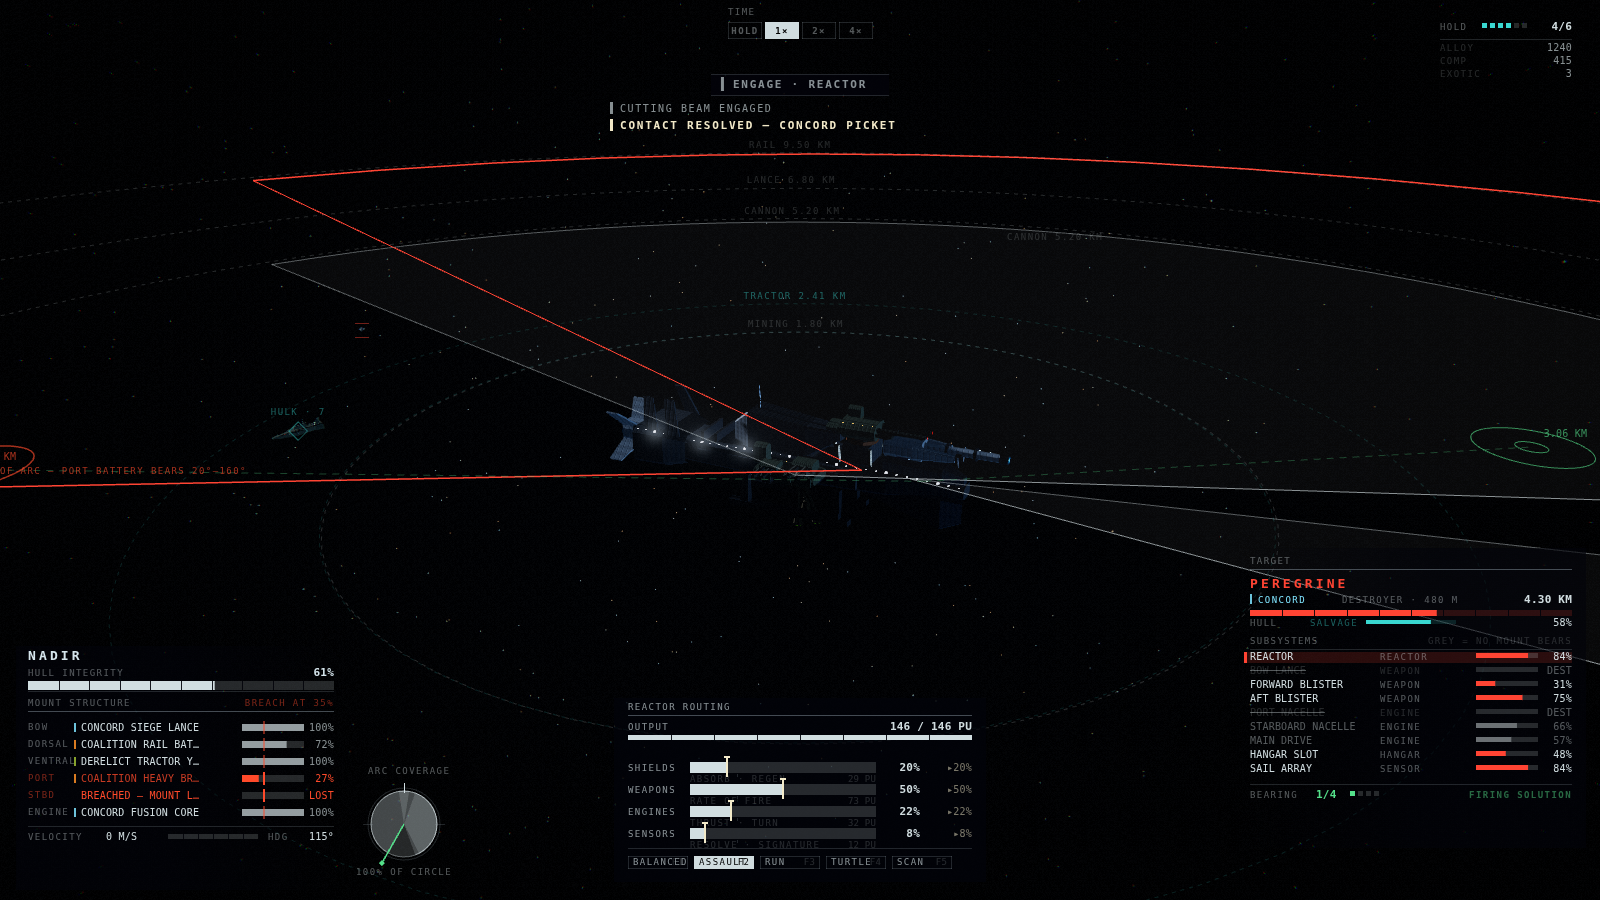
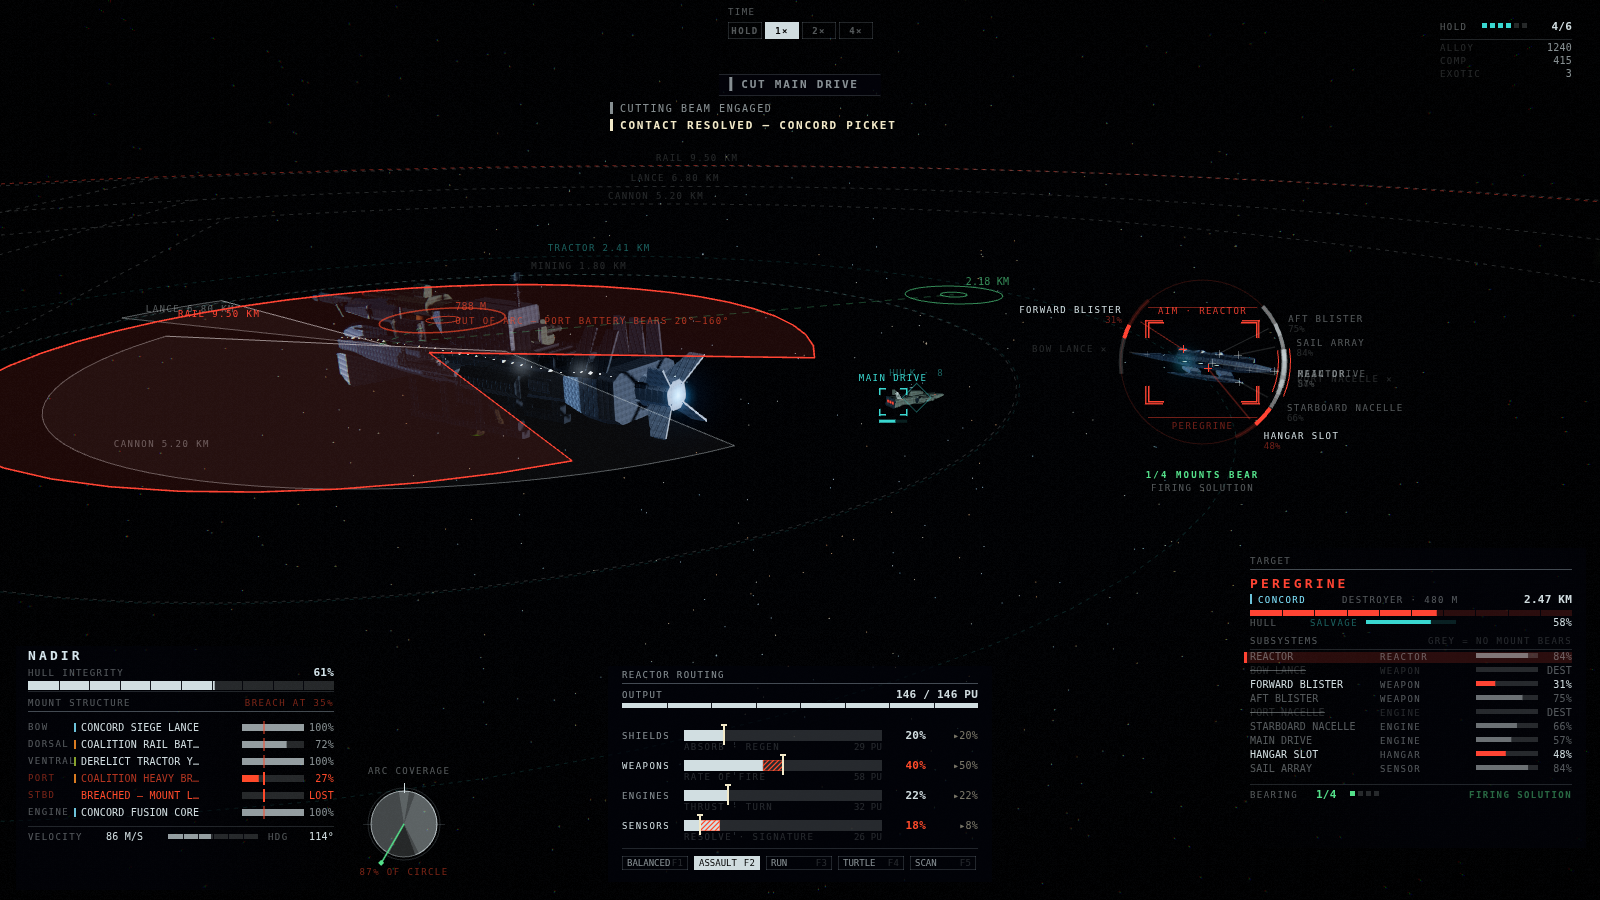
Add first assembled-game capture
docs/review/pass1/three-quarter.png is the whole build running together:
HUD with per-hardpoint structure bars and the breach-at-35% marker, power
routing correctly sealed until a reactor module is installed, arc coverage
reading 0% with no weapons fitted, tractor range ring, and the gas giant
POI behind it.

It also pins down the worst open defect precisely. The cruiser renders as a
near-uniform white mass with almost no value variation between faces
pointing in completely different directions, while the gas giant behind it
carries a correct terminator. That fails two acceptance criteria at once -
no object lit contradicting the POI key, and shadowed regions retaining
readable value separation.

Claude-Session: https://claude.ai/code/session_015jvdszNLHKCdWey4BV1AZL

diff --git a/src/ui/tactical.js b/src/ui/tactical.js
@@ -110,8 +110,15 @@ export class TacticalOverlay {
     const arcs = combat.describeArcs(player);
     if (!arcs.length) return;
 
+    // The rose is deliberately SMALL. It sits around the hull like a compass drawn on
+    // the plane; grown any larger the wide mounts (the dorsal bed is 306 degrees)
+    // become a translucent disc over half the frame and the negative space that makes
+    // this game legible is gone.
     const camDist = proj.camera ? proj.camera.position.distanceTo(player.position) : 4000;
-    const roseR = THREE.MathUtils.clamp(camDist * 0.36, 900, 7000);
+    const roseR = Math.min(
+      THREE.MathUtils.clamp(camDist * 0.21, 650, 3200),
+      (player.radius ?? 600) * 2.2,
+    );
 
     // Bearing wedges last, so a live firing solution is never drawn under a wedge
     // that cannot reach the target.
@@ -132,7 +139,10 @@ export class TacticalOverlay {
       }
 
       const near = Math.min(range, roseR);
-      const fillA = !a.online ? 0 : bearing ? 0.115 : 0.040;
+      // Fill only what is ON TARGET, and only when the wedge is narrow enough for a
+      // fill to read as a wedge. Everything else is an outline. One filled shape in
+      // the frame means the eye finds the firing solution without being told.
+      const fillA = bearing && a.width < Math.PI * 1.15 ? 0.10 : 0;
       const n = ARC_SEGS;
       const count = n + 2;
 
@@ -200,23 +210,23 @@ export class TacticalOverlay {
     }
     rings.sort((a, b) => a.r - b.r);
 
-    for (const ring of rings.slice(0, 5)) {
+    const shown = rings.slice(0, 5);
+    for (let k = 0; k < shown.length; k++) {
+      const ring = shown[k];
       this._planeRing(P, player.position.x, player.position.z, ring.r,
         ring.salvage ? C.salvageGhost : C.inkGhost, 1, this._dash);
-      // Label at the topmost valid vertex, so it never lands under the ship panel.
-      let best = -1;
-      let bestY = Infinity;
-      for (let i = 0; i <= RING_SEGS; i++) {
+      // Each ring takes its own sector of the circle for its label. Putting them all
+      // at the top of their ring stacks five readouts into one illegible block.
+      const start = Math.round(((k * 2 + 1) / (shown.length * 2)) * RING_SEGS);
+      for (let step = 0; step < RING_SEGS; step++) {
+        const i = (start + (step % 2 ? -1 : 1) * Math.ceil(step / 2) + RING_SEGS * 2) % RING_SEGS;
         const p = this._ring[i];
-        if (!p.ok || p.x < 120 || p.x > P.w - 120) continue;
-        if (p.y < bestY) { bestY = p.y; best = i; }
-      }
-      if (best >= 0 && bestY > 24) {
-        const p = this._ring[best];
-        P.text(`${ring.label} ${fmtRange(ring.r)}`, p.x, p.y - 5, {
+        if (!p.ok || p.x < 150 || p.x > P.w - 150 || p.y < 40 || p.y > P.h - 130) continue;
+        P.text(`${ring.label} ${fmtRange(ring.r)}`, p.x, p.y - 4, {
           font: F.micro, color: ring.salvage ? C.salvageDim : C.inkGhost,
           align: 'center', track: TRACK.label,
         });
+        break;
       }
     }
   }
@@ -278,7 +288,7 @@ export class TacticalOverlay {
     const cy = this._pt.y;
 
     const hullR = Math.max(22, proj.radiusAt(target.position, target.radius ?? 60));
-    const ringR = Math.max(64, hullR * 1.5);
+    const ringR = Math.max(82, hullR * 1.7);
 
     // Hard bracket on the hull.
     P.corners(cx, cy, hullR, hullR * 0.74, Math.min(16, hullR * 0.5), C.hostile, 1.5);

diff --git a/src/probes/ui.js b/src/probes/ui.js
@@ -523,9 +523,7 @@ function seedMarkers(ui, world, player, target, pose) {
   }
 
   // 2. PROVISIONAL — spawned this instant, not yet drawn once.
-  const move = ui.spawnOrderMarker('move', {
-    point: new THREE.Vector3(p.x + 1900, 0, p.z - 2400),
-  });
+  const move = ui.spawnOrderMarker('move', { point: at(700, 1250) });
   if (move) { move.frame0 = ui.frame + 4; move.stage = 'provisional'; }
 
   // 3. COMMITTED — mid scale-in, on the locked target.
@@ -540,7 +538,33 @@ function seedMarkers(ui, world, player, target, pose) {
     const m = ui.spawnOrderMarker('salvage', { section: cutting.section });
     if (m) { m.stage = 'committed'; m.stageAt = t - 0.6; m.ttl = 30; }
   }
-  void wreck;
+  void player;
+}
+
+/**
+ * Look square across the engagement axis, framing both hulls.
+ *
+ * `pose.yaw = φ − π/2` is the azimuth at which the player→target vector lies along
+ * screen-right, so the pair spreads across the frame instead of stacking in depth.
+ * The focus is pushed below the plane, which lifts both ships above centre and
+ * leaves the lower third to the panels.
+ */
+function framePair(pose, player, target, screenName) {
+  if (!player) { pose.target.set(0, 40, 0); return pose; }
+  if (!target) { pose.target.copy(player.position); pose.target.y = -120; return pose; }
+
+  const phi = Math.atan2(target.position.x - player.position.x, target.position.z - player.position.z);
+  pose.yaw = phi - Math.PI * 0.5;
+
+  if (screenName === 'hit') {
+    // The cruiser is deliberately out of shot; this plate is about the chevron.
+    pose.target.copy(target.position);
+    pose.target.y = -150;
+  } else {
+    pose.target.copy(player.position).lerp(target.position, 0.44);
+    pose.target.y = -320;
+  }
+  return pose;
 }
 
 // ---------------------------------------------------------------------------
